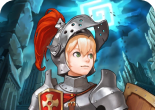
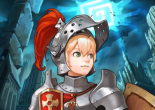
stupid rating-system with png and starting to change html illustration to css ill-ns

Changed region(s): [[0.9032, 0.0, 1.0, 0.1091], [0.0, 0.0, 0.0774, 0.1091]]

diff --git a/css/style.css b/css/style.css
@@ -1,14 +1,15 @@
 :root {
-    --grey: #414141;
-    --beige: #FFFBE9;
-    --light-grey: #C3C3C3;
-    --light-grey50: #c3c3c381;
-    --red: #C34C4C;
-    --blue: #449FC7;
-    --yellow: #FFE500;
-    --purple: #683E82;
-    --brown: #8D6E3E;
+
+    --bg: #FFFBE9;
+    --basic: #414141;
+    --dark: #683E82;
+    --light: #FFE500;
+    --fire: #C34C4C;
+    --water: #449FC7;
+    --half-transparent: #c3c3c381;
+    --earth: #8D6E3E;
     --cocoa: #AF9E85;
+    --gray: #C3C3C3;
 
 }
 
@@ -18,33 +19,33 @@
 }
 
 .rotateImg45 {
-    -webkit-transform:rotate(-45deg);
+    -webkit-transform: rotate(-45deg);
     -moz-transform: rotate(-45deg);
-    -ms-transform: rotate(-145deg);
+    -ms-transform: rotate(-45deg);
     -o-transform: rotate(-45deg);
     transform: rotate(-45deg);
 }
 
 body {
-    background-color: var(--beige);
+    background-color: var(--bg);
     padding: 0;
     margin: 0;
 
 }
 
 header {
-    background-color: var(--grey);
+    background-color: var(--basic);
     width: auto;
     height: 120px;
     margin: 0;
     border: 0;
-    box-shadow: 0 12px 16px 0 rgba(0,0,0,0.24), 0 17px 50px 0 rgba(0,0,0,0.19);
+    box-shadow: 0 12px 16px 0 rgba(0, 0, 0, 0.24), 0 17px 50px 0 rgba(0, 0, 0, 0.19);
 
 }
 
 .header {
     margin: 0 auto 0 auto;
-    background-color: var(--light-grey50);
+    background-color: var(--half-transparent);
     border-radius: 20px 20px 0 0;
     height: 65px;
     width: 560px;
@@ -70,7 +71,7 @@ header {
 
     border-radius: 0 0 20px 20px;
     text-transform: lowercase;
-    color: var(--grey);
+    color: var(--basic);
     font-size: 30pt;
     padding: 10px 10px 10px 10px;
 }
@@ -85,26 +86,25 @@ header {
 }
 
 .homeButt:hover {
-    box-shadow: 0 12px 16px 0 rgba(0,0,0,0.24), 0 17px 50px 0 rgba(0,0,0,0.19);
+    box-shadow: 0 12px 16px 0 rgba(0, 0, 0, 0.24), 0 17px 50px 0 rgba(0, 0, 0, 0.19);
 }
 
 /* main */
 
 main {
-width: 1000px;
-margin: 0 auto auto auto;
-padding: 100px 20px 0 20px;
-background-color: white;
+    width: 1000px;
+    margin: 0 auto auto auto;
+    padding: 100px 20px 0 20px;
+    background-color: white;
 
 }
-.cardSection {
-    
-}
+
+.cardSection {}
 
 /* assets */
 
 .card {
-    background-color: var(--grey);
+    background-color: var(--basic);
     border-radius: 20px;
     width: 155px;
     height: 250px;
@@ -117,8 +117,70 @@ background-color: white;
     padding: 5px 0 3px 0;
     height: fit-content;
 }
+
 .cardImg {
-    border-radius: 20px 20px 0 0;
+    border-radius: 15px 15px 0 0;
+    outline-style: solid;
+    outline-offset: -3px;
+    outline-color: var(--basic);
+    
+}
+
+/* .illustration {
+    background-image: url(../img/illustrations/knight.png);
+    background-repeat: no-repeat;
+    border-radius: 15px 15px 0 0;
+    outline-style: solid;
+    outline-offset: -3px;
+    outline-color: var(--basic);
+} */
+
+
+
+.rating {
+    /* change this to normal script later */
+    height: 20px;
+    width: 75px;
+    margin-left: 5px;
+    margin-top: 0;
+    
+}
+
+.oneStar {
+    height:20;
+    width: 75px;
+    background-image: url(../img/rating/RATING=1.png);
+    background-repeat: no-repeat;
+    margin; 0;
+    
+}
+
+.twoStars {
+    height:20;
+    width: 75px;
+    background-image: url(../img/rating/RATING=2.png);
+    background-repeat: no-repeat;
+}
+
+.threeStars {
+    height:20;
+    width: 75px;
+    background-image: url(../img/rating/RATING=3.png);
+    background-repeat: no-repeat;
+}
+
+.fourStars {
+    height:20;
+    width: 75px;
+    background-image: url(../img/rating/RATING=4.png);
+    background-repeat: no-repeat;
+}
+
+.fiveStars {
+    height:20;
+    width: 75px;
+    background-image: url(../img/rating/RATING=5.png);
+    background-repeat: no-repeat;
 }
 
 .elements {
@@ -127,7 +189,7 @@ background-color: white;
     border-style: solid;
     border-width: 2px; */
     border-radius: 5px;
-    outline: var(--grey);
+    outline: var(--basic);
     outline-offset: -1px;
     outline-width: 2px;
     outline-style: solid;
@@ -135,33 +197,39 @@ background-color: white;
     height: 40px;
     padding: auto;
 }
+
 .basic {
-    background-color: var(--grey);
+    background-color: var(--basic);
     background-image: url(../img/elements/basic.png);
-    background-blend-mode:color-burn;
+    background-blend-mode: color-burn;
 }
+
 .dark {
-    background-color: var(--purple);
+    background-color: var(--dark);
     background-image: url(../img/elements/dark.png);
-    background-blend-mode:color-burn;
+    background-blend-mode: color-burn;
 }
+
 .light {
-    background-color: var(--yellow);
+    background-color: var(--light);
     background-image: url(../img/elements/light.png);
-    background-blend-mode:multiply;
+    background-blend-mode: multiply;
 }
+
 .fire {
-    background-color: var(--red);
+    background-color: var(--fire);
     background-image: url(../img/elements/fire.png);
-    background-blend-mode:multiply;
+    background-blend-mode: multiply;
 }
+
 .water {
-    background-color: var(--blue);
+    background-color: var(--water);
     background-image: url(../img/elements/water.png);
-    background-blend-mode:multiply;
+    background-blend-mode: multiply;
 }
+
 .earth {
-    background-color: var(--brown);
+    background-color: var(--earth);
     background-image: url(../img/elements/earth.png);
-    background-blend-mode:multiply;
+    background-blend-mode: multiply;
 }

diff --git a/main.html b/main.html
@@ -19,7 +19,10 @@
         <section class="cardsSection">
             <div class="card">
                 <div class="cardName">KNIGHT</div>
-                <div class="cardImg"><img alt="Knight illustration" src="./img/illustrations/knight.png"></div>
+                <div><img alt="Knight illustration" class="cardImg" src="./img/illustrations/knight.png"></div>
+                <!-- <div class="illustration"></div> -->
+                <div class="rating oneStar">
+                </div>
             </div>
             <div class="elements basic"></div>
             <div class="elements dark"></div>
